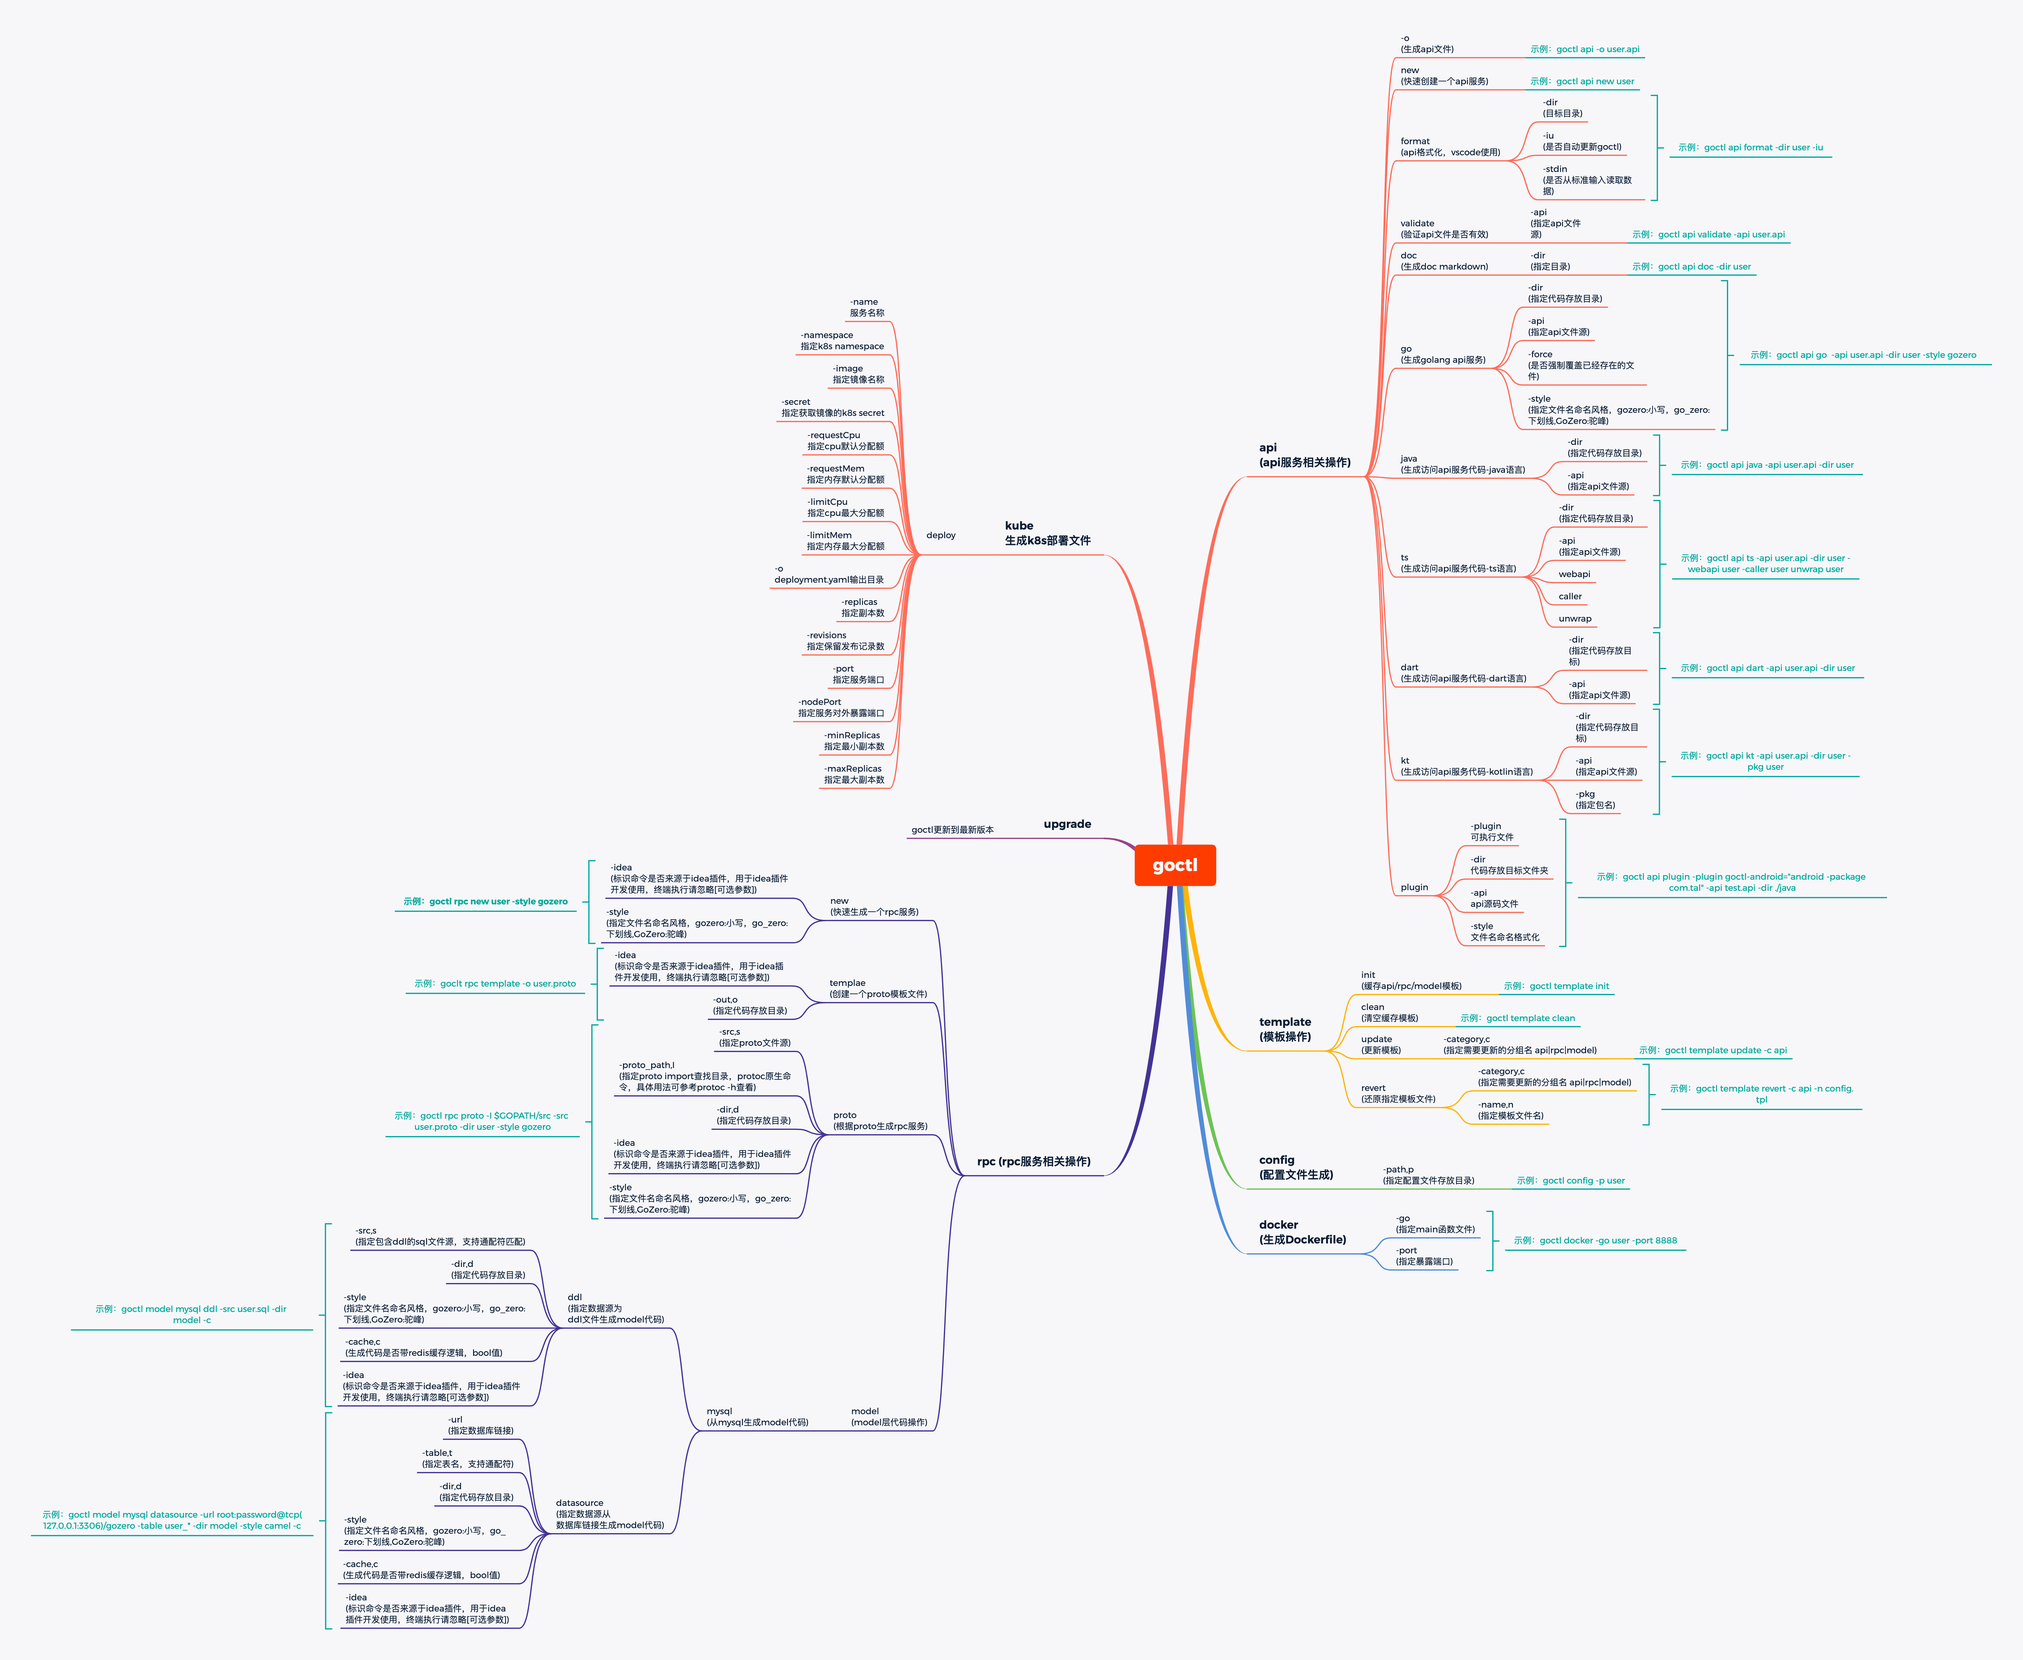
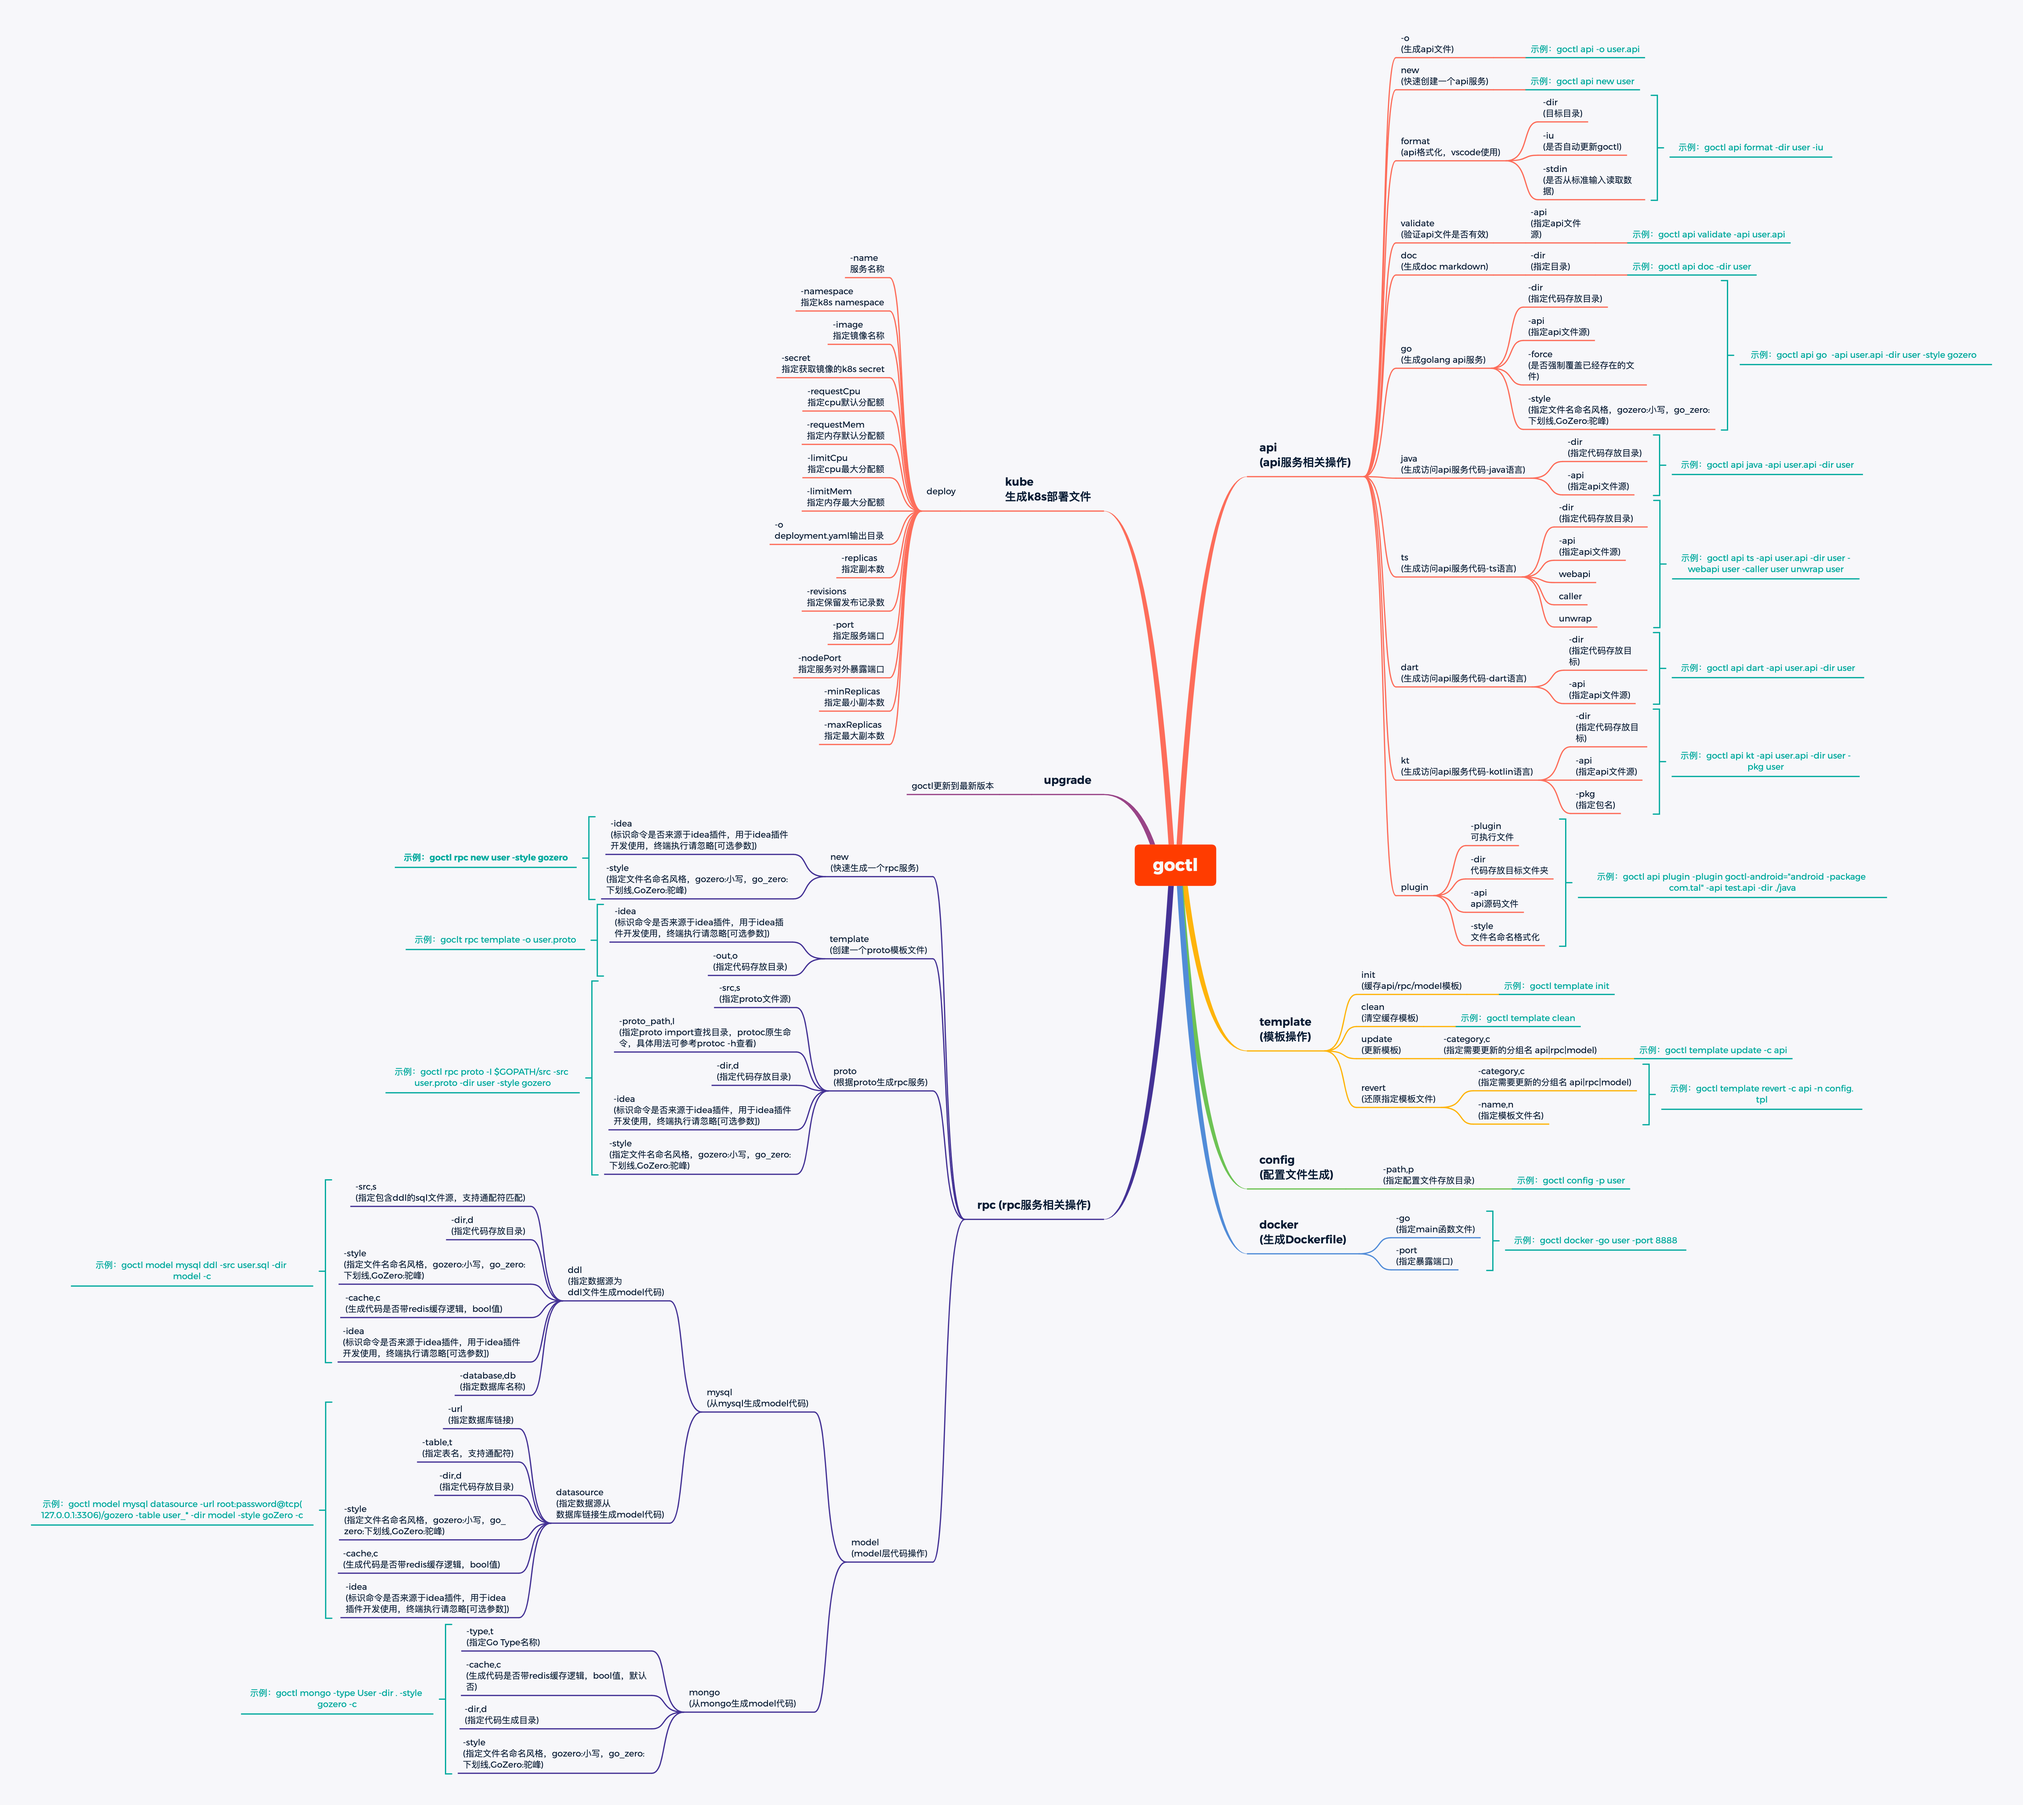
Update goctl-commands.md

diff --git a/cn/goctl-commands.md b/cn/goctl-commands.md
@@ -158,7 +158,7 @@
 - -style
   (指定文件名命名风格，gozero:小写，go_zero:下划线,GoZero:驼峰)
 
-### templae
+### template
 (创建一个proto模板文件)
 
 - -idea
@@ -217,7 +217,18 @@
           (生成代码是否带redis缓存逻辑，bool值)
         - -idea
           (标识命令是否来源于idea插件，用于idea插件开发使用，终端执行请忽略[可选参数])
+- mongo
+  (从mongo生成model代码)
 
+    - -type,t
+      (指定Go Type名称)
+    - -cache,c
+      (生成代码是否带redis缓存逻辑，bool值，默认否)
+    - -dir,d
+      (指定代码生成目录)
+    - -style
+      (指定文件名命名风格，gozero:小写，go_zero:下划线,GoZero:驼峰)
+      
 ## upgrade
 goctl更新到最新版本
 

diff --git a/en/goctl-commands.md b/en/goctl-commands.md
@@ -219,7 +219,18 @@
           (Whether the generated code has redis cache logic, bool value)
         - -idea
           (Identifies whether the command comes from the idea plug-in and is used for the development and use of the idea plug-in. Please ignore the terminal execution [optional])
+- mongo
+  (generate model code from mongo)
 
+  -type,t
+  (specify Go Type name)
+  -cache,c
+  (generate code with redis cache logic or not, bool value, default no)
+  -dir,d
+  (specify the code generation directory)
+  -style
+  (specify filename naming style, gozero:lowercase, go_zero:underscore, GoZero:hump)
+      
 ## upgrade
 Goctl updated to the latest version
 
